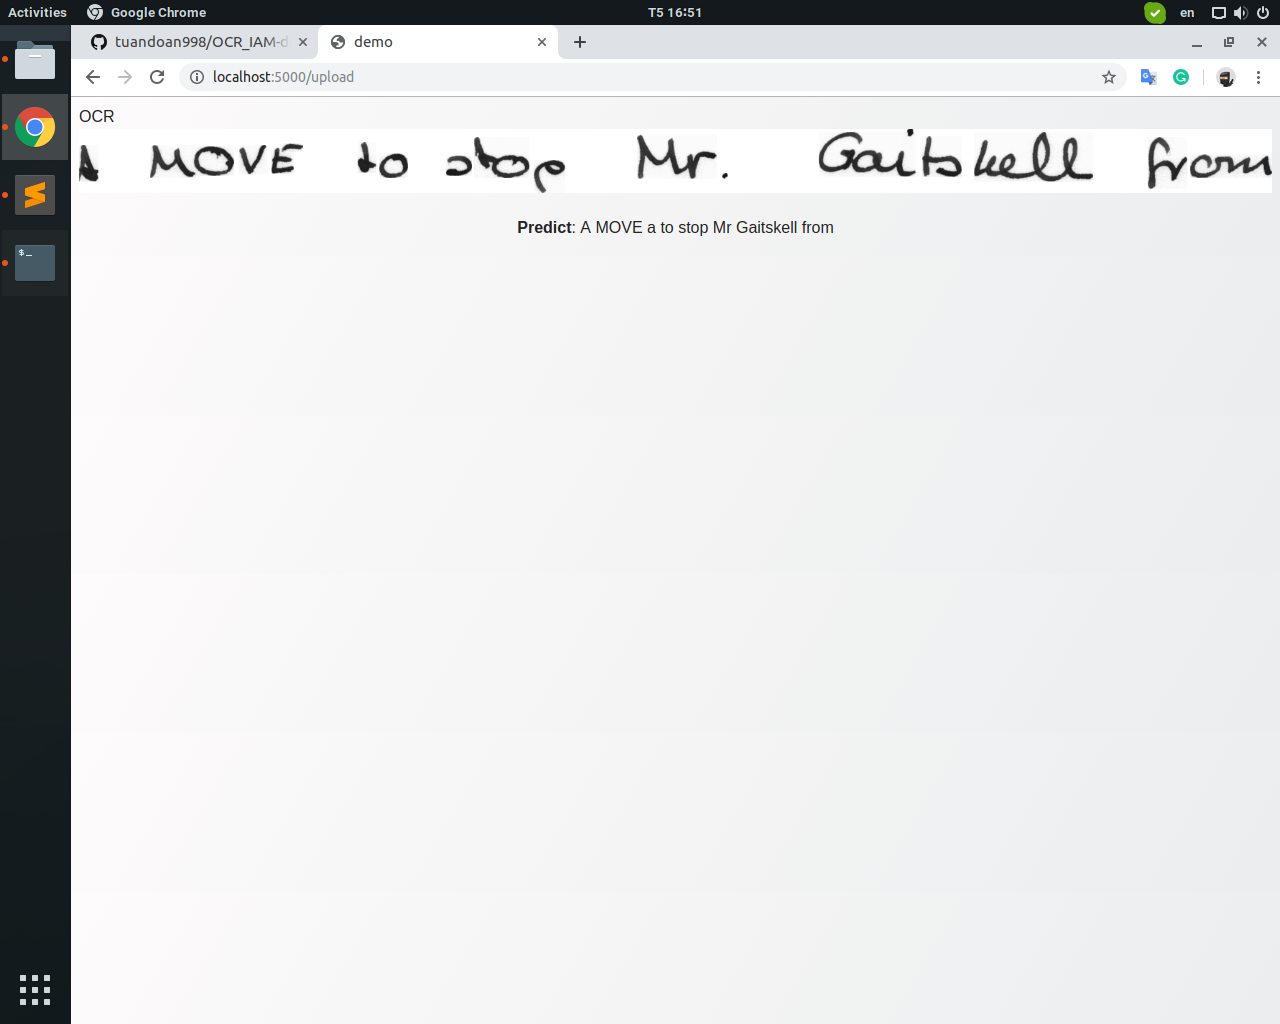
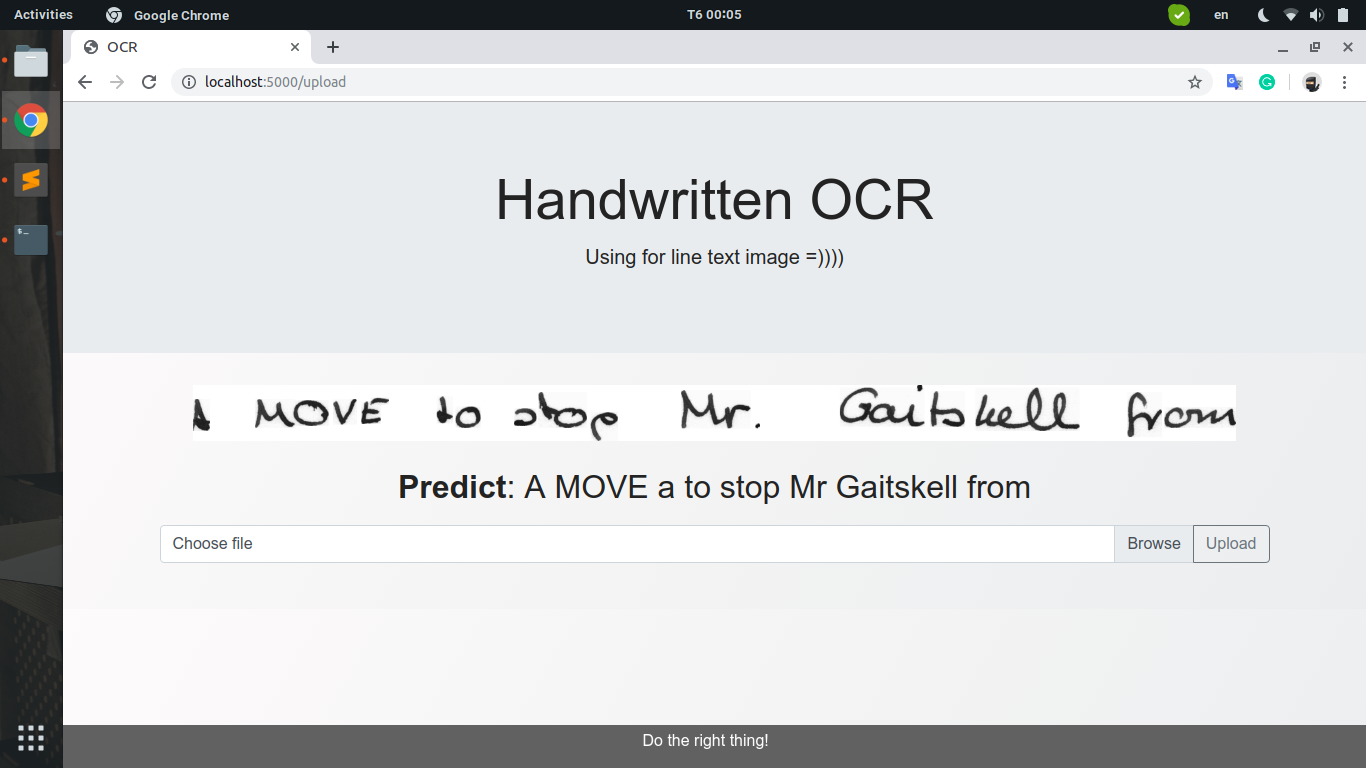
Edit demo

diff --git a/Demo/templates/template.html b/Demo/templates/template.html
@@ -1,35 +1,95 @@
 <!DOCTYPE html>
 <html lang="en" dir="ltr">
-  <head>
-    <meta charset="utf-8">
-    <title>demo</title>
+    <head>
+        <meta charset="utf-8">
+        <title>OCR</title>
+        <link rel="stylesheet" href="https://stackpath.bootstrapcdn.com/bootstrap/4.3.1/css/bootstrap.min.css" integrity="sha384-ggOyR0iXCbMQv3Xipma34MD+dH/1fQ784/j6cY/iJTQUOhcWr7x9JvoRxT2MZw1T" crossorigin="anonymous">
+        
+        <style>
+            body {
+              font-family: "Helvetica Neue", Helvetica, Arial, sans-serif;
+              line-height: 2em;
+              color: #232323;
+              -webkit-font-smoothing: antialiased;
+              background-image: linear-gradient(120deg, #fdfbfb 0%, #ebedee 100%);
+            }
+            #footer {
+              position: fixed;
+              left: 0;
+              bottom: 0;
+              width: 100%;
+              background-color: #616161;
+              color: white;
+              text-align: center;
+              z-index: 10;
+            }
 
-    <!-- <link rel="stylesheet" href="{{ url_for('static',    filename='css/template.css') }}"> -->
-    <style>
-    body {
-      font-family: "Helvetica Neue", Helvetica, Arial, sans-serif;
-      line-height:1.5em;
-      color: #232323;
-      -webkit-font-smoothing: antialiased;
-      background-image: linear-gradient(120deg, #fdfbfb 0%, #ebedee 100%);
-    }
-    legend {
-      display: block;
-      padding-left: 2px;
-      padding-right: 2px;
-      border: none;
-      margin: auto;
-      text-align: center;
-      color: navy;
-    }
-    </style>
-  </head>
-  <body>
-    <legend">OCR</legend>
-    <center>
-    <img src=" {{url_for('send_image', filename=image_name)}}" width="100%">
-    <p style="text-align: center;"> <b>Predict</b>: {{ predict }} </p> 
+            .space {
+              display: block;
+              height: 30px;
+            }
+        </style>
+    </head>
+    <body>
 
-    
-  </body>
+        <div class="jumbotron jumbotron-fluid">
+          <div class="container">
+            <h1 class="display-4 text-center">Handwritten OCR</h1>
+            <p class="lead text-center">Using for line text image =))))</p>
+          </div>
+        </div>
+
+        {% if predict %}
+        <div align="center">
+            <img src=" {{url_for('send_image', filename=image_name)}}"  class="img-fluid" width="80%">
+            <div class="space"></div>
+            <p style="text-align: center;"> <font size="6"> <b>Predict</b>: {{ predict }} </font></p>
+        </div>
+        {% endif %}
+
+       <!--  <form id="upload-form" action="upload" method="POST" enctype="multipart/form-data">
+            <strong>Upload an image:</strong><br>
+            <input id="file-picker" type="file" name="file" accept="image/*" multiple>
+            <div id="msg"></div>
+            <input type="submit" value="Upload!" id="upload-button">
+        </form> -->
+
+        <div class="container mb-3">
+        <form id="upload-form" action="upload" method="POST" enctype="multipart/form-data">
+            <div class="input-group">
+              <div class="custom-file">
+                <input type="file" class="custom-file-input" id="file-picker" name="file" accept="image/*" multiple>
+                <label class="custom-file-label" for="inputGroupFile04">Choose file</label>
+              </div>
+              <div class="input-group-append">
+                <button class="btn btn-outline-secondary" type="submit" id="inputGroupFileAddon04">Upload</button>
+              </div>
+            </div>
+            <div class="space"></div>
+        </form>
+        </div>
+
+        <div class="mt-4" id="footer" style="bottom: 0">
+            <div class="container">
+                <marquee>Do the right thing!</marquee>
+            </div>
+        </div>
+    </body>
+    <script src="https://ajax.googleapis.com/ajax/libs/jquery/1.12.0/jquery.min.js"></script>
+    <script>
+        $("#file-picker").change(function(){
+            var input = document.getElementById('file-picker');
+            for (var i=0; i<input.files.length; i++){
+            //koala.jpg, koala.JPG substring(index) lastIndexOf('a') koala.1.jpg
+                var ext= input.files[i].name.substring(input.files[i].name.lastIndexOf('.')+1).toLowerCase()
+                if ((ext == 'jpg') || (ext == 'png')){
+                    $("#msg").text("Files are supported")
+                }
+                else{
+                    $("#msg").text("Files are NOT supported")
+                    document.getElementById("file-picker").value ="";
+                }
+            }
+        } );
+    </script>
 </html>

diff --git a/Demo/app.py b/Demo/app.py
@@ -2,6 +2,7 @@ from flask import Flask, request, render_template, send_from_directory
 from ocr import detect
 from keras.models import model_from_json
 import os
+from keras import backend as K
 
 app = Flask(__name__)
 UPLOAD_FOLDER = './static'
@@ -9,10 +10,11 @@ APP_ROOT = os.path.dirname(os.path.abspath(__file__))
 
 @app.route("/")
 def index():
-    return render_template("upload.html")
+    return render_template("template.html")
 
 @app.route("/upload", methods=["POST"])
-def upload():    
+def upload():
+    K.clear_session()
     with open('../Resource/model_predict.json', 'r') as f:
         model_predict = model_from_json(f.read())
     model_predict.load_weights('../Resource/iam_words--15--1.791.h5')
@@ -35,9 +37,8 @@ def upload():
         upload.save(destination)
 
     text, locate = detect(model_predict, destination)
+    K.clear_session()
     pred = ' '.join(text)
-
-    # return send_from_directory("images", filename, as_attachment=True)
     return render_template("template.html", predict=pred, image_name=filename)
 
 @app.route('/upload/<filename>')
